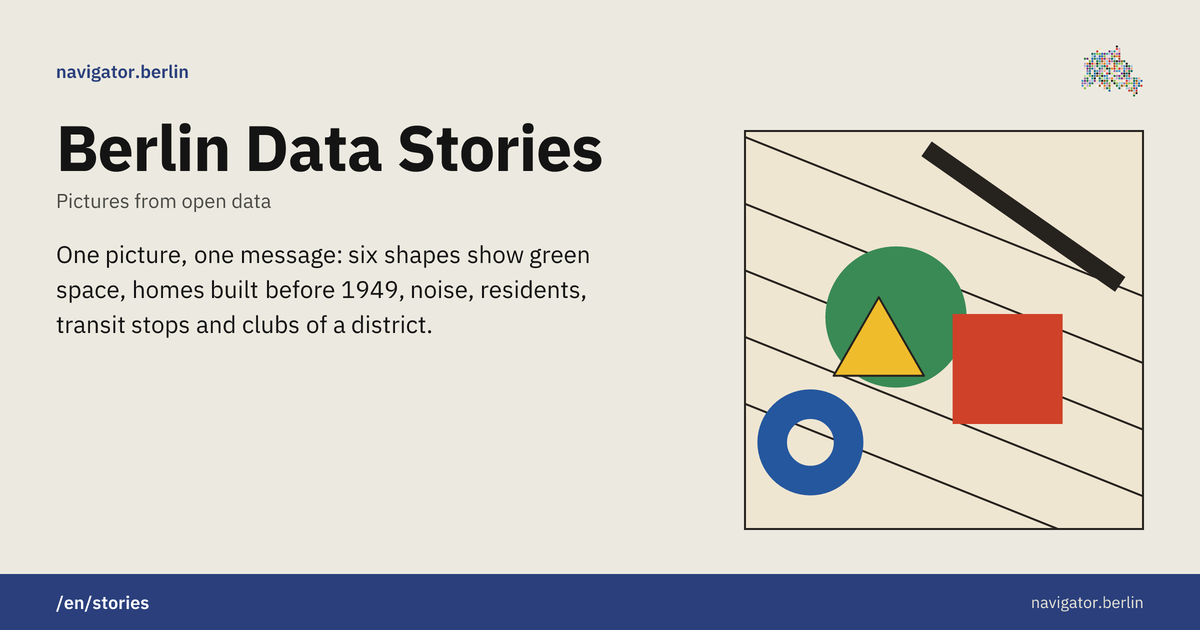
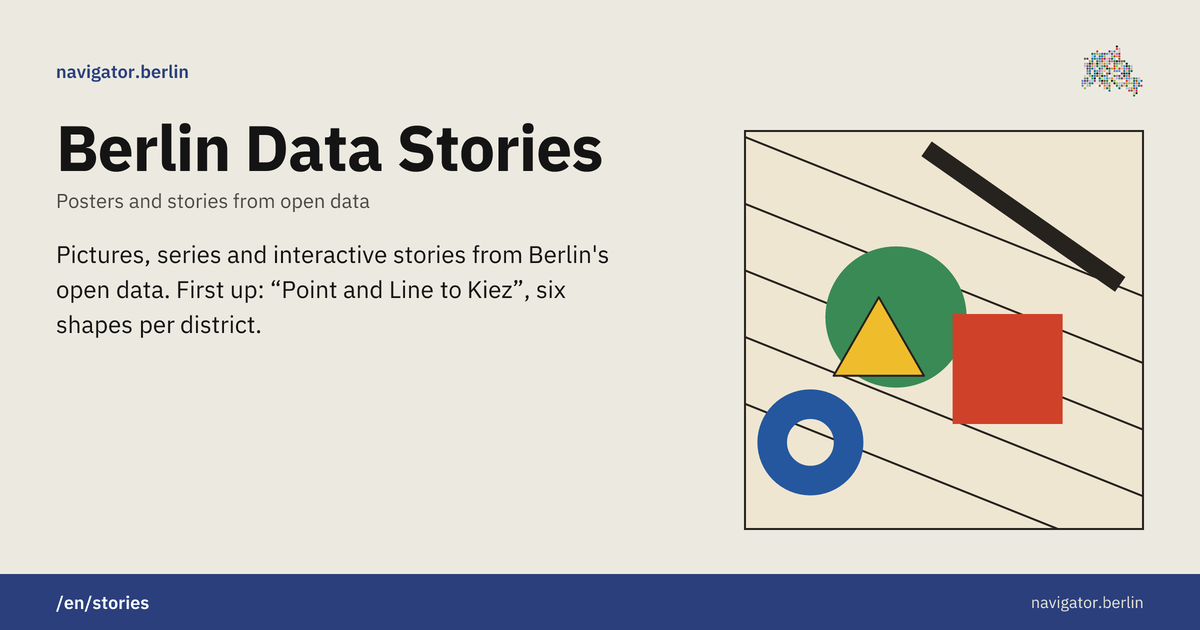
Broaden the remaining Data Stories meta texts
Meta description, JSON-LD, llms entry, OG card and the announcement
title now speak of posters and stories instead of pictures with one
message.

Changed region(s): [[0.0308, 0.3921, 0.5242, 0.5429], [0.0617, 0.3016, 0.3083, 0.3317]]

diff --git a/scripts/generate-og-images.ts b/scripts/generate-og-images.ts
@@ -157,16 +157,16 @@ const PAGE_TARGETS: readonly PageTarget[] = [
 	{
 		slug: 'stories',
 		headline: 'Berlin Data Stories',
-		subline: 'Bilder aus offenen Daten',
-		body: 'Ein Bild, eine Aussage: Sechs Formen zeigen Grünversorgung, Altbau, Lärm, Bewohner, Haltestellen und Clubs eines Bezirks.',
+		subline: 'Plakate und Geschichten aus offenen Daten',
+		body: 'Bilder, Serien und interaktive Geschichten aus offenen Berliner Daten. Den Anfang macht „Punkt, Linie, Kiez“: sechs Formen pro Bezirk.',
 		footerUrl: '/stories',
 		compositionBezirk: 'charlottenburg-wilmersdorf'
 	},
 	{
 		slug: 'stories-en',
 		headline: 'Berlin Data Stories',
-		subline: 'Pictures from open data',
-		body: 'One picture, one message: six shapes show green space, homes built before 1949, noise, residents, transit stops and clubs of a district.',
+		subline: 'Posters and stories from open data',
+		body: "Pictures, series and interactive stories from Berlin's open data. First up: “Point and Line to Kiez”, six shapes per district.",
 		footerUrl: '/en/stories',
 		compositionBezirk: 'charlottenburg-wilmersdorf'
 	},

diff --git a/src/lib/seo/llms-builder.ts b/src/lib/seo/llms-builder.ts
@@ -176,7 +176,7 @@ export function collectLlmsSourceEntries(ctx: LlmsSourceContext): LlmsSourceEntr
 	out.push({
 		loc: `${ctx.origin}/stories`,
 		name: 'Berlin Data Stories',
-		description: 'Bilder mit einer Aussage, gebaut aus denselben offenen Daten wie der Atlas',
+		description: 'Plakate und interaktive Geschichten aus denselben offenen Daten wie der Atlas',
 		section: 'static'
 	});
 	out.push({

diff --git a/_content/stories/2026-10-31-berlin-data-stories.md b/_content/stories/2026-10-31-berlin-data-stories.md
@@ -1,6 +1,6 @@
 ---
-title: 'Berlin Data Stories: Bilder aus offenen Daten'
-title_en: 'Berlin Data Stories: pictures from open data'
+title: 'Berlin Data Stories: Plakate und Geschichten aus offenen Daten'
+title_en: 'Berlin Data Stories: posters and stories from open data'
 summary: 'Neue Reihe auf navigator.berlin: Plakate und Geschichten aus denselben offenen Daten wie der Atlas.'
 summary_en: 'A new series on navigator.berlin: posters and stories from the same open data as the atlas.'
 date: 2026-10-31
